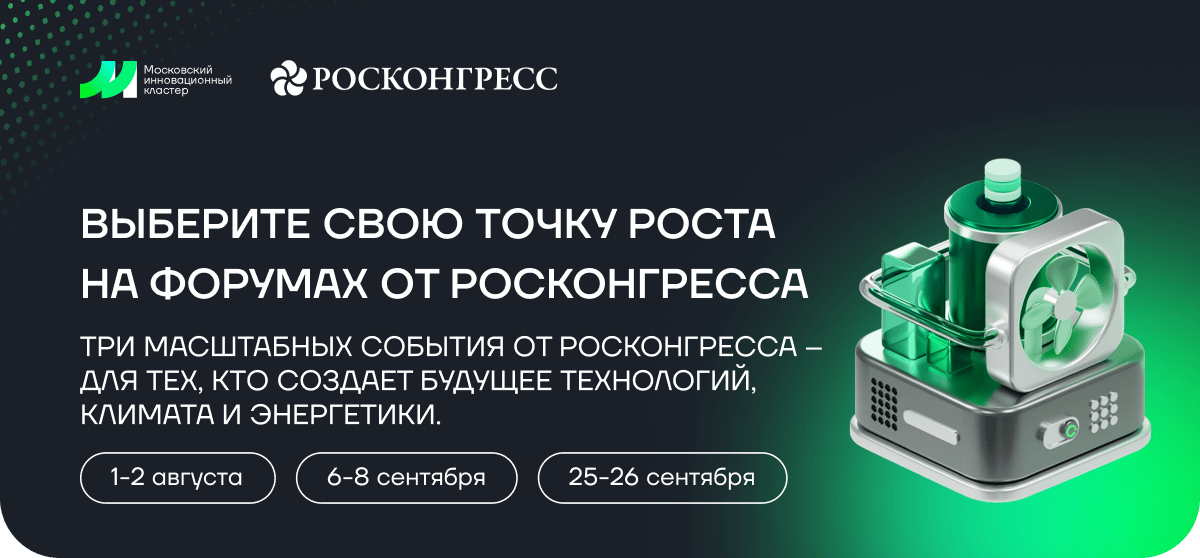
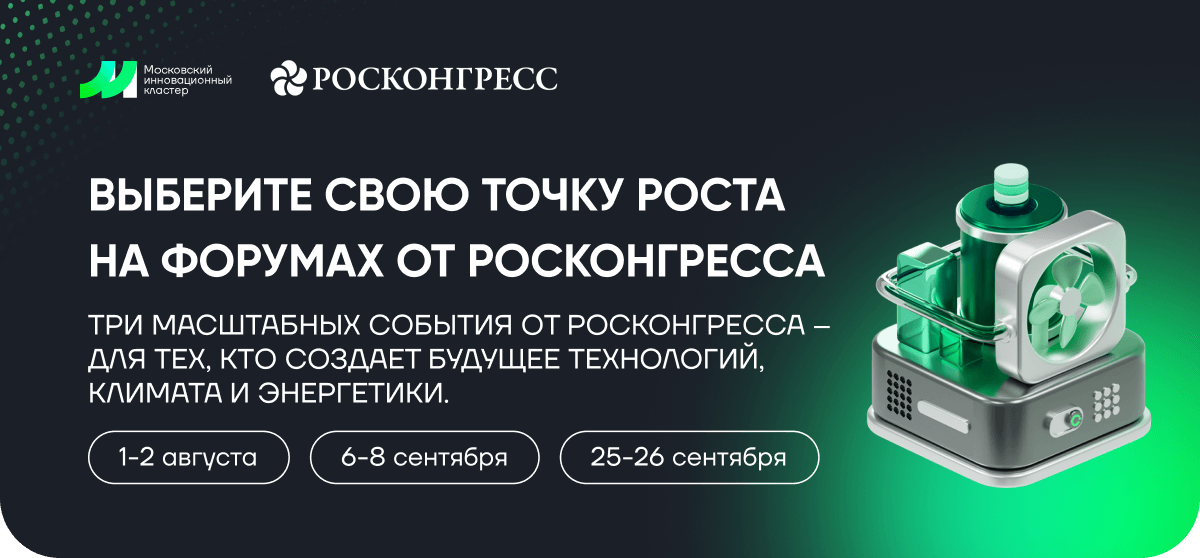
change mik-252

Changed region(s): [[0.0617, 0.2742, 0.9867, 0.914]]

diff --git a/mik-252/Выберите свою точку роста на форумах от Росконгресса.html b/mik-252/Выберите свою точку роста на форумах от Росконгресса.html
@@ -142,7 +142,53 @@
             </tbody>
         </table>
     </div>
-    <!--[if mso | IE]></td></tr></table><table align="center" border="0" cellpadding="0" cellspacing="0" class="" style="width:560px;" width="560" ><tr><td style="line-height:0px;font-size:0px;mso-line-height-rule:exactly;"><v:rect style="width:560px;" xmlns:v="urn:schemas-microsoft-com:vml" fill="true" stroke="false"><v:fill origin="0.5, 0" position="0.5, 0" src="https://cp.unisender.com/ru/user_file?resource=images&user_id=5608985&name=mik-252-bg-1.png" type="tile" size="1,1" aspect="atleast" /><v:textbox style="mso-fit-shape-to-text:true" inset="0,0,0,0"><![endif]-->
+    <!--[if mso | IE]></td></tr></table><table align="center" border="0" cellpadding="0" cellspacing="0" class="" style="width:560px;" width="560" ><tr><td style="line-height:0px;font-size:0px;mso-line-height-rule:exactly;"><v:rect style="width:560px;" xmlns:v="urn:schemas-microsoft-com:vml" fill="true" stroke="false"><v:fill origin="0.5, 0" position="0.5, 0" src="https://cp.unisender.com/ru/user_file?resource=images&user_id=5608985&name=mik-252-bg-4.png" type="tile" size="1,1" aspect="atleast" /><v:textbox style="mso-fit-shape-to-text:true" inset="0,0,0,0"><![endif]-->
+    <div style="background:url(https://cp.unisender.com/ru/user_file?resource=images&user_id=5608985&name=mik-252-bg-4.png) center top / cover repeat;background-position:center top;background-repeat:repeat;background-size:cover;margin:0px auto;max-width:560px;border-radius:20px;background-color:#1B1F28;margin-top:31px;">
+        <div style="line-height:0;font-size:0;">
+            <table align="center" background="https://cp.unisender.com/ru/user_file?resource=images&user_id=5608985&name=mik-252-bg-4.png" border="0" cellpadding="0" cellspacing="0" role="presentation" style="background:url(https://cp.unisender.com/ru/user_file?resource=images&user_id=5608985&name=mik-252-bg-4.png) center top / cover repeat;background-position:center top;background-repeat:repeat;background-size:cover;width:100%;border-radius:20px;background-color:#1B1F28;">
+                <tbody>
+                <tr>
+                    <td style="direction:ltr;font-size:0px;padding:0 21px 4px;">
+                        <!--[if mso | IE]><table role="presentation" border="0" cellpadding="0" cellspacing="0"><tr><td class="" style="vertical-align:top;max-width:420px;width:100%;" ><![endif]-->
+                        <div class="mj-outlook-group-fix" style="font-size:0px;text-align:left;direction:ltr;display:inline-block;vertical-align:top;max-width:420px;width:100%;">
+                            <table border="0" cellpadding="0" cellspacing="0" role="presentation" style="vertical-align:top;" width="100%">
+                                <tbody>
+                                <tr>
+                                    <td align="left" style="font-size:0px;word-break:break-word;padding-top:19px;">
+                                        <div style="font-family: Gilroy, Helvetica, Arial, sans-serif;font-size:16px;font-weight:600;line-height:120%;text-align:left;color:#FFFFFF;max-width:359px;width:100%;">Бесплатно для участников Московского инновационного кластера</div>
+                                    </td>
+                                </tr>
+                                </tbody>
+                            </table>
+                        </div>
+                        <!--[if mso | IE]></td><td class="" style="vertical-align:top;" ><![endif]-->
+                        <div class="mj-outlook-group-fix" style="font-size:0px;text-align:left;direction:ltr;display:inline-block;vertical-align:top;">
+                            <table border="0" cellpadding="0" cellspacing="0" role="presentation" style="vertical-align:top;" width="100%">
+                                <tbody>
+                                <tr>
+                                    <td style="font-size:0px;word-break:break-word;">
+                                        <table border="0" cellpadding="0" cellspacing="0" role="presentation" style="border-collapse:collapse;border-spacing:0px;">
+                                            <tbody>
+                                            <tr>
+                                                <td style="width:85px;padding-top:3px;">
+                                                    <img alt="Декоративная картинка" height="auto" src="https://cp.unisender.com/ru/user_file?resource=images&user_id=5608985&name=mik-252-content-img-1.png" style="border:0;display:block;outline:none;text-decoration:none;height:auto;width:100%;font-size:13px;" width="85" />
+                                                </td>
+                                            </tr>
+                                            </tbody>
+                                        </table>
+                                    </td>
+                                </tr>
+                                </tbody>
+                            </table>
+                        </div>
+                        <!--[if mso | IE]></td></tr></table><![endif]-->
+                    </td>
+                </tr>
+                </tbody>
+            </table>
+        </div>
+    </div>
+    <!--[if mso | IE]></v:textbox></v:rect></td></tr></table><table align="center" border="0" cellpadding="0" cellspacing="0" class="" style="width:560px;" width="560" ><tr><td style="line-height:0px;font-size:0px;mso-line-height-rule:exactly;"><v:rect style="width:560px;" xmlns:v="urn:schemas-microsoft-com:vml" fill="true" stroke="false"><v:fill origin="0.5, 0" position="0.5, 0" src="https://cp.unisender.com/ru/user_file?resource=images&user_id=5608985&name=mik-252-bg-1.png" type="tile" size="1,1" aspect="atleast" /><v:textbox style="mso-fit-shape-to-text:true" inset="0,0,0,0"><![endif]-->
     <div style="background:url(https://cp.unisender.com/ru/user_file?resource=images&user_id=5608985&name=mik-252-bg-1.png) center top / cover repeat;background-position:center top;background-repeat:repeat;background-size:cover;margin:0px auto;max-width:560px;border-radius:20px;background-color:#1B1F28;margin-top:31px;">
         <div style="line-height:0;font-size:0;">
             <table align="center" background="https://cp.unisender.com/ru/user_file?resource=images&user_id=5608985&name=mik-252-bg-1.png" border="0" cellpadding="0" cellspacing="0" role="presentation" style="background:url(https://cp.unisender.com/ru/user_file?resource=images&user_id=5608985&name=mik-252-bg-1.png) center top / cover repeat;background-position:center top;background-repeat:repeat;background-size:cover;width:100%;border-radius:20px;background-color:#1B1F28;">
